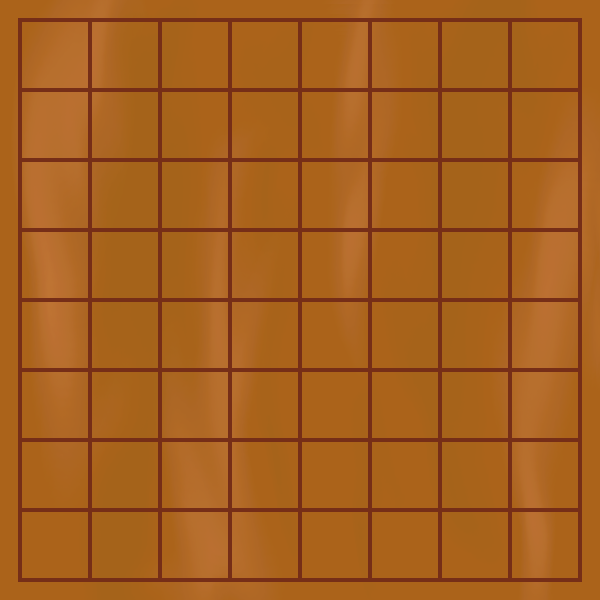
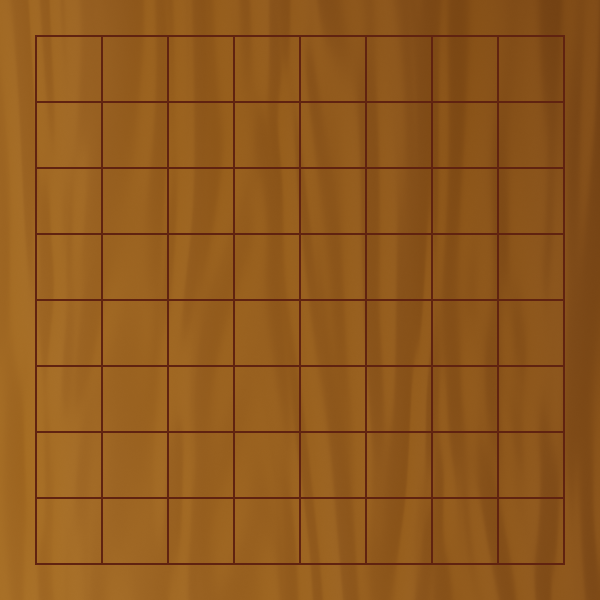
Corrections mineures dans main.c - Déplacement des define de main.c à main.h - Modification du fond (apparence et taille) de l'interface

diff --git a/gtk_interface/interface.h b/gtk_interface/interface.h
@@ -1,24 +1,94 @@
+/**
+ * \file move.h
+ * \brief Fonctions relatives à la structure de déplacement
+ * \author Groupe 1
+ * \version 0.1
+*/
+
+/**
+ * \brief Nombre de pions par joueur
+*/
 #define PAWN_NB 14
 
-typedef struct {int x; int y;} Pion;
+#define MAX_I 10
+#define MAX_J 10
 
-void onDestroy(GtkWidget *widget, gpointer data);
-void onDraw(GtkWidget *widget, gpointer data);
+#define CASE_VIDE '0'
+#define CASE_NOIRE 'N'
+#define CASE_BLANCHE 'B'
 
-void clear(cairo_t *cr);
-void draw(cairo_t *cr);
+typedef char Plateau[MAX_I][MAX_J];
 
-gboolean startDraw(GtkWidget *widget, cairo_t *cr, gpointer data);
+/**
+ * \fn onDestroy(GtkWidget *widget, gpointer data)
+ * \brief Fonction exécutée lors de l'appui sur le bouton "Quitter"
+ * \param widget Widget auquel le signal contenant cette fonction est associé
+ * \param data Donnée supplémentaire transmise lors de l'appui sur le bouton (inutilisé)
+*/
+void onDestroy(GtkWidget* widget, gpointer data);
 
+/**
+ * \fn onDraw(GtkWidget *widget, gpointer data)
+ * \brief Fonction exécutée lors de l'appui sur le bouton "Dessiner"
+ * \param widget Widget auquel le signal contenant cette fonction est associé
+ * \param data Donnée supplémentaire transmise lors de l'appui sur le bouton (inutilisé)
+*/
+void onDraw(GtkWidget* widget, gpointer data);
+
+/**
+ * \fn onActivateEntry(GtkEntry* entry, gpointer data)
+ * \brief Fonction exécutée en appuyant sur la touche "Entrée" après avoir rempli le champ
+ * \param entry Champ à remplir concerné par ce signal
+ * \param data Donnée supplémentaire transmise à la fonction (ici, le contenu du champ)
+*/
 void onActivateEntry(GtkEntry* entry, gpointer data);
 
+/**
+ * \fn setPlayerColor(char color)
+ * \brief Actualise le texte de l'interface concernant la couleur du joueur client : "Vous êtes les _"
+ * \param color Couleur du joueur client ('b' = black ; 'w' = white)
+*/
 void setPlayerColor(char color);
+
+/**
+ * \fn setTurnColor(char color)
+ * \brief Actualise le texte de l'interface concernant la couleur du joueur dont c'est le tour : "Tour des _"
+ * \param color Couleur du joueur dont c'est le tour ('b' = black ; 'w' = white)
+*/
 void setTurnColor(char color);
+
+/**
+ * \fn setTurnNumber(int turn)
+ * \brief Actualise le texte de l'interface concernant le numéro du tour : "Tour _"
+ * \param turn Numéro du tour
+*/
 void setTurnNumber(int turn);
+
+/**
+ * \fn setLastMove(int** move)
+ * \brief Actualise le texte de l'interface concernant le dernier déplacement joué : "Dernier coup : __:__"
+ * \param move Dernier déplacement effectué
+*/
 void setLastMove(int** move);
 
-int button_clicked;
-
+/**
+ * \fn drawPawn (char color, int index, int* position)
+ * \brief Place un pion sur le plateau de l'interface graphique
+ * \param color Couleur du pion à placer ('b' = black ; 'w' = white)
+ * \param index Index de la liste des pions noirs (ou blancs) concerné par ce déplacement (0 <= index <= PAWN_NB)
+ * \param position Position où placer le pion (int[2] sous la forme {ligne, colonne})
+*/
 void drawPawn (char color, int index, int* position);
+
+/**
+ * \fn drawBoard(Plateau board)
+ * \brief Place les pions sur le plateau de l'interface graphique d'après la disposition indiquée
+ * \param board Plateau à afficher
+*/
 void drawBoard(Plateau board);
+
+/**
+ * \fn clearBoard()
+ * \brief Efface le plateau (en pratique : rend tous les pions invisibles et les déplace en position (0, 0), soit en haut à gauche)
+*/
 void clearBoard();

diff --git a/gtk_interface/interface.c b/gtk_interface/interface.c
@@ -4,11 +4,8 @@
 #include <stdio.h>
 #include <stdbool.h>
 #include "../deplacement.h"
-#include "../main.h"
+//#include "../main.h"
 #include "interface.h"
-
-Pion blancs[PAWN_NB];
-Pion noirs[PAWN_NB];
 
 // Déclaration de la fenêtre et de ses éléments
 GtkWidget* window;
@@ -35,9 +32,7 @@ GtkWidget* pawnsBlack[PAWN_NB];
 GtkWidget* pawnsWhite[PAWN_NB];
 
 int main(int argc, char **argv)
-{	
-	button_clicked = FALSE;
-	
+{
 	gtk_init(&argc, &argv); // Initialisation de GTK+
 	
 	window = gtk_window_new(GTK_WINDOW_TOPLEVEL);						// Création de la fenêtre
@@ -237,17 +232,17 @@ void drawPawn (char color, int index, int* position) {
 		return;
 	}
 	
-	// -40 = 20 (bordure) + 10 (padding) - 70 (taille d'une case)
+	// -22 = 36 (bordure) + 8 (padding) - 66 (taille d'une case)
 	switch(color) {
 		case 'b':
 			gtk_image_set_from_file (GTK_IMAGE(pawnsBlack[index]), "pawn_black.png");
-			gtk_widget_set_margin_start(pawnsBlack[index], -40 + (position[0] * 70));
-			gtk_widget_set_margin_top(pawnsBlack[index], -40 + (position[1] * 70));
+			gtk_widget_set_margin_start(pawnsBlack[index], -22 + (position[0] * 66));
+			gtk_widget_set_margin_top(pawnsBlack[index], -22 + (position[1] * 66));
 			break;
 		case 'w':
 			gtk_image_set_from_file (GTK_IMAGE(pawnsWhite[index]), "pawn_white.png");
-			gtk_widget_set_margin_start(pawnsWhite[index], -40 + (position[0] * 70));
-			gtk_widget_set_margin_top(pawnsWhite[index], -40 + (position[1] * 70));
+			gtk_widget_set_margin_start(pawnsWhite[index], -22 + (position[0] * 66));
+			gtk_widget_set_margin_top(pawnsWhite[index], -22 + (position[1] * 66));
 			break;
 		default: printf("Error: Incorrect color"); return;
 	}

diff --git a/main.c b/main.c
@@ -7,13 +7,7 @@
 #include "ListeDeplacement1Bille.h"
 #include "evaluate.h"
 
-#define MAX_I 10
-#define MAX_J 10
-#define INFINITY 147483648
-
-#define CASE_VIDE '0'
-#define CASE_NOIRE 'N'
-#define CASE_BLANCHE 'B'
+char* moves[200];
 
 Plateau plateau = {
     {CASE_VIDE, CASE_VIDE, CASE_VIDE, CASE_VIDE, CASE_VIDE, CASE_VIDE, CASE_VIDE, CASE_VIDE, CASE_VIDE, CASE_VIDE},
@@ -65,9 +59,8 @@ int miniMax(Plateau p,int depth,int alpha,int beta,bool isMaximizingPlayer){
     beta=INFINITY;
     Move m;
     Move mback;
-	if(depth==0){ //S'arrête lorsque la profondeur souhaitée est atteinte
+	if(depth==0) //S'arrête lorsque la profondeur souhaitée est atteinte
 		return evaluate(p,CASE_NOIRE);
-	}
 	    
 	if(isMaximizingPlayer){ 
         int score=-INFINITY;
@@ -153,7 +146,7 @@ char playerMove(Plateau p){
     char charac[1000]="";
     printf("Quel mouvement ? de type xx:xx\n");
     scanf("%s",charac);
-    translatMove(charac);
+    translateMove(charac);
     m[0][0]=charac[0]-'@';
     m[1][0]=charac[1]-'0';
     m[0][1]=charac[3]-'@';

diff --git a/main.h b/main.h
@@ -8,6 +8,12 @@
 #define MAX_I 10
 #define MAX_J 10
 
+#define INFINITY 147483648
+
+#define CASE_VIDE '0'
+#define CASE_NOIRE 'N'
+#define CASE_BLANCHE 'B'
+
 
 typedef char Plateau[MAX_I][MAX_J];
 /**
